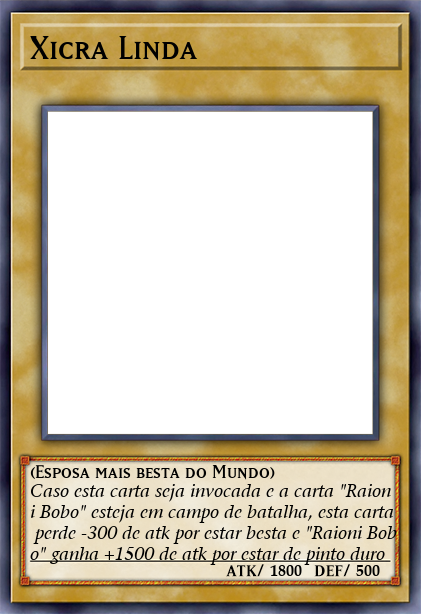
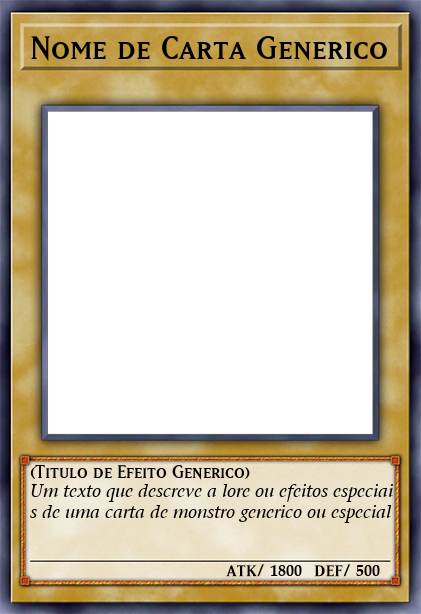
Ajustes feitos nos conteúdos da carta de exemplo do script

Changed region(s): [[0.0618, 0.7427, 0.9572, 0.9283], [0.2779, 0.0619, 0.9264, 0.0928], [0.0618, 0.0619, 0.247, 0.1238]]

diff --git a/main.py b/main.py
@@ -1,7 +1,6 @@
 from PIL import Image, ImageDraw, ImageFont
 
 #Fontes utilizadas
-
 #Fonte Nome
 fonte_nome = ImageFont.truetype('Fontes/Yu-Gi-Oh! Matrix Regular Small Caps 1.ttf',46)
 #Fonte Titulo Efeito
@@ -15,13 +14,13 @@ carta = Image.open('./Cartas/Normal.png')
 desenhar = ImageDraw.Draw(carta)
 
 #Inserindo Nome da Carta
-desenhar.text((30,28),"Xicra Linda",fill='black',font=fonte_nome)
+desenhar.text((30,28),"Nome de Carta Generico",fill='black',font=fonte_nome)
 
 #Inserindo Nome do Efeito/Titulo da Carta
-desenhar.text((30,460),"[Esposa mais besta do Mundo]",fill='black',font=fonte_sub)
+desenhar.text((30,460),"[Titulo de Efeito Generico]",fill='black',font=fonte_sub)
 
 #Inserindo Descrição do efeito da carta em uma variavél separada e criando 2 strings vazias
-desc = 'Caso esta carta seja invocada e a carta "Raioni Bobo" esteja em campo de batalha, esta carta perde -300 de atk por estar besta e "Raioni Bobo" ganha +1500 de atk por estar de pinto duro'
+desc = 'Um texto que descreve a lore ou efeitos especiais de uma carta de monstro generico ou especial'
 t1 = ""
 t2 = ""
 
